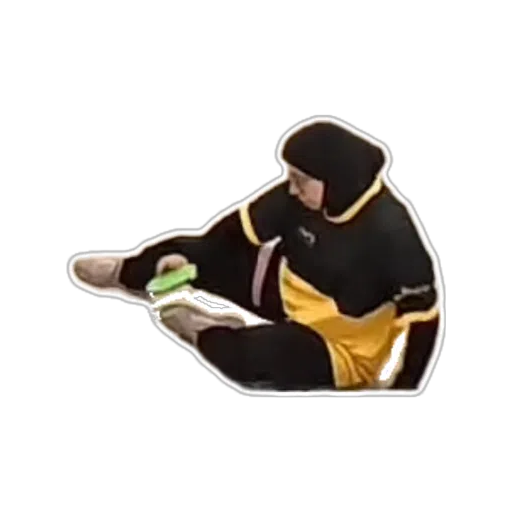
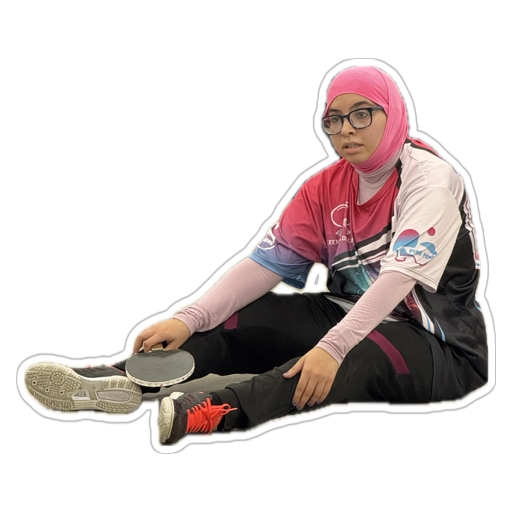
Pop Ben and David in from the sides when the schedule is swiped to an end
PopoutSticker can now enter from the left or right viewport edge and has a
"scroll-edge" trigger that watches a horizontal scroll container, firing when
it reaches the chosen edge and re-arming when it leaves (the starting edge
doesn't fire). The home page schedule uses it for Ben (right end) and David
(left end). The default hold time drops to 1.5 seconds for every pop-out,
including Brandon on the tournament page. Also refreshes Leena's sticker
artwork.

Claude-Session: https://claude.ai/code/session_01XJzsafUgTFqgb6Uwg8ijqe

diff --git a/src/treasureHunt.ts b/src/treasureHunt.ts
@@ -12,6 +12,8 @@ import sidFooter from "./assets/stickers/sid-1.webp";
 import mayWorkshop from "./assets/stickers/may-workshop.webp";
 import brandonTournament from "./assets/stickers/brandon-1.webp";
 import burgerMenu from "./assets/stickers/burger.webp";
+import benSchedule from "./assets/stickers/ben-popout.webp";
+import davidSchedule from "./assets/stickers/david-popout.webp";
 
 /**
  * Treasure hunt stickers (WhatsApp sticker WebP files in src/assets/stickers). Each entry is one
@@ -20,7 +22,7 @@ import burgerMenu from "./assets/stickers/burger.webp";
  * `<RandomSticker ids={[...]} />` places one of several, chosen client-side on each load;
  * `<RevealSticker id="...">word</RevealSticker>` pops one up above a word on hover/click;
  * `<PopoutSticker id="..." />` jumps up from the bottom edge when the page is scrolled to the end
- * (or, with `trigger="parent-dialog"`, when the <dialog> it sits in opens).
+ * (or a scroll container reaches an edge, or the <dialog> it sits in opens; see its props).
  */
 export const STICKERS = {
   "alberto-drawer": { img: albertoDrawer, alt: "Treasure hunt sticker: Alberto" },
@@ -40,6 +42,9 @@ export const STICKERS = {
   "brandon-tournament": { img: brandonTournament, alt: "Treasure hunt sticker: Brandon" },
   // Replaces the hamburger icon on the toggle button inside the open mobile nav menu.
   "burger-menu": { img: burgerMenu, alt: "Treasure hunt sticker: Burger" },
+  // Home page schedule: pop in from the viewport edge when it is swiped to its right/left end.
+  "ben-schedule": { img: benSchedule, alt: "Treasure hunt sticker: Ben" },
+  "david-schedule": { img: davidSchedule, alt: "Treasure hunt sticker: David" },
 } as const satisfies Record<string, { img: ImageMetadata; alt: string }>;
 
 export type StickerId = keyof typeof STICKERS;
